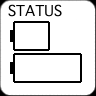
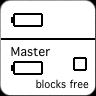
Pixel-based battery meter.

Changed region(s): [[0.0, 0.0312, 1.0, 0.9375]]

diff --git a/launcher/src/applet/status.cpp b/launcher/src/applet/status.cpp
@@ -10,7 +10,8 @@
 #include <sifteo.h>
 using namespace Sifteo;
 
-static const unsigned kNumBatteryLevels = 8;
+static const unsigned kNumBatteryTiles = 3;
+static const unsigned kNumBatteryLevels = 8 * kNumBatteryTiles;
 static const unsigned kMaxBatteryLevel = 256;
 
 MainMenuItem::Flags StatusApplet::getAssets(MenuItem &assets, MappedVolume&)
@@ -24,11 +25,11 @@ MainMenuItem::Flags StatusApplet::getAssets(MenuItem &assets, MappedVolume&)
     unsigned numBatteryLevelsBuddy = batteryLevelBuddy * float(kNumBatteryLevels);
     numBatteryLevelsBuddy = MIN(numBatteryLevelsBuddy, levelCounter);
 
-    for (int i = 0; i < kNumBatteryLevels/2; ++i) {
-        if (numBatteryLevelsBuddy >= i*2) {
-            icon.image(vec(Battery_Black.tileWidth() * i + 2, 3), Battery_Black, 1);
-        } else if (numBatteryLevelsBuddy == i*2-1) {
-            icon.image(vec(Battery_Black.tileWidth() * i + 2, 3), Battery_Black, 0);
+    for (int i = 0; i < kNumBatteryTiles; ++i) {
+        unsigned baseBars = i * 8;
+        if (numBatteryLevelsBuddy > baseBars) {
+            int numBars = numBatteryLevelsBuddy - baseBars;
+            icon.image(vec(Battery_Black.tileWidth() * i + 2, 2), Battery_Black, numBars - 1);
         }
     }
 
@@ -38,11 +39,11 @@ MainMenuItem::Flags StatusApplet::getAssets(MenuItem &assets, MappedVolume&)
     unsigned numBatteryLevelsMaster = batteryLevelMaster * float(kNumBatteryLevels);
     numBatteryLevelsMaster = MIN(numBatteryLevelsMaster, levelCounter);
 
-    for (int i = 0; i < kNumBatteryLevels/2; ++i) {
-        if (numBatteryLevelsMaster >= i*2) {
-            icon.image(vec(Battery_Red.tileWidth() * i + 2, 7), Battery_Red, 1);
-        } else if (numBatteryLevelsMaster == i*2-1) {
-            icon.image(vec(Battery_Red.tileWidth() * i + 2, 7), Battery_Red, 0);
+    for (int i = 0; i < kNumBatteryTiles; ++i) {
+        unsigned baseBars = i * 8;
+        if (numBatteryLevelsBuddy > baseBars) {
+            int numBars = numBatteryLevelsMaster - baseBars;
+            icon.image(vec(Battery_Black.tileWidth() * i + 2, 8), Battery_Black, numBars - 1);
         }
     }
     
@@ -100,11 +101,11 @@ void StatusApplet::prepaint(CubeSet cubes, CubeID mainCube)
             unsigned numBatteryLevelsBuddy = batteryLevelBuddy * float(kNumBatteryLevels);
             numBatteryLevelsBuddy = MIN(numBatteryLevelsBuddy, levelCounter);
 
-            for (int i = 0; i < kNumBatteryLevels/2; ++i) {
-                if (numBatteryLevelsBuddy >= i*2) {
-                    vid.bg0.image(vec(Battery_Black.tileWidth() * i + 4, 5), Battery_Black, 1);
-                } else if (numBatteryLevelsBuddy == i*2-1) {
-                    vid.bg0.image(vec(Battery_Black.tileWidth() * i + 4, 5), Battery_Black, 0);
+            for (int i = 0; i < kNumBatteryTiles; ++i) {
+                unsigned baseBars = i * 8;
+                if (numBatteryLevelsBuddy > baseBars) {
+                    int numBars = numBatteryLevelsBuddy - baseBars;
+                    vid.bg0.image(vec(i + 4, 4), Battery_Black, numBars - 1);
                 }
             }
         }
